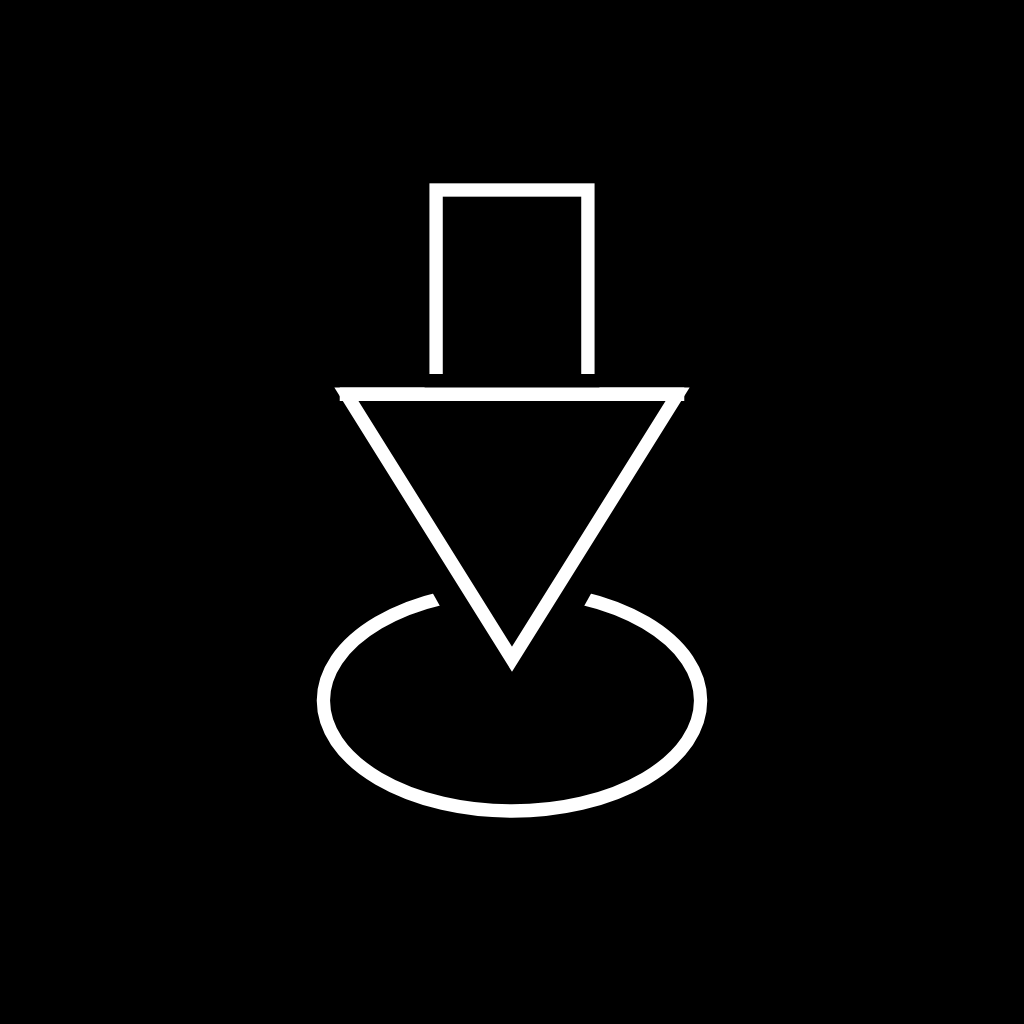
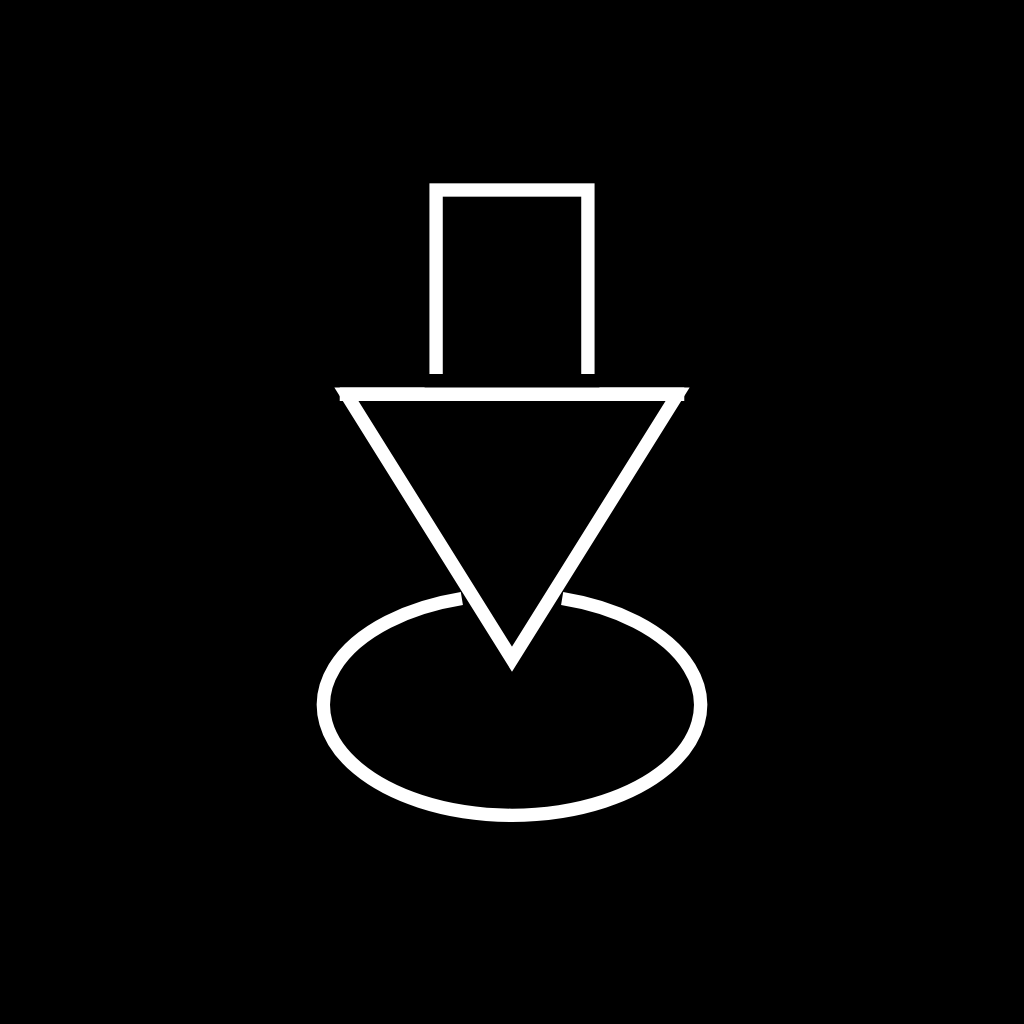
원 상단 호를 끊고 내일 필드를 TOP→실시간으로
겹침 구간은 원 패스에 아예 두지 않고, 필드는 인기 TOP 아래
현재 올라오는 의견이 이어지게 한다.

diff --git a/components/DomaMark.tsx b/components/DomaMark.tsx
@@ -1,7 +1,5 @@
 "use client";
 
-import { useId } from "react";
-
 type DomaMarkProps = {
   /** 세로 기준 높이 */
   size?: number;
@@ -11,8 +9,8 @@ type DomaMarkProps = {
 };
 
 /**
- * 삼각이 위 레이어. 원은 evenodd 클립으로 삼각(확장) 구간 스트로크 0.
- * 그 위 삼각 fill(bg)+stroke로 겹침을 다시 막는다.
+ * 삼각이 위 레이어.
+ * 원은 삼각과 겹치는 상단 호를 패스에서 끊음 → 가려지는 구간 스트로크 0.
  */
 export function DomaMark({
   size = 56,
@@ -21,13 +19,18 @@ export function DomaMark({
 }: DomaMarkProps) {
   const stroke = light ? "#000000" : "#ffffff";
   const bg = light ? "#ffffff" : "#000000";
-  const uid = useId().replace(/:/g, "");
-  const clipId = `doma-ell-clip-${uid}`;
   const width = Math.round(size * (48 / 72));
 
   const tri = "M6 23.2h36L24 52Z";
-  // 스트로크 두께 포함해 원을 잘라낼 구멍
-  const triHole = "M0.8 18.8h46.4L24 60.2Z";
+
+  /**
+   * 타원 cx=24 cy=56.5 rx=20.5 ry=12
+   * 삼각 변과 교차 ≈ (-103°, -77°). 여유 두고 상단 호를 더 넓게 제거.
+   * 왼쪽 (18.6, 45.35) → 시계방향 큰 호 → 오른쪽 (29.4, 45.35)
+   * (= 하단·측면만 그림, 겹침 상단 스트로크 없음)
+   */
+  const ellipseOpen =
+    "M18.55 45.4 A20.5 12 0 1 0 29.45 45.4";
 
   return (
     <svg
@@ -39,28 +42,16 @@ export function DomaMark({
       className={`shrink-0 ${className}`}
       aria-hidden
     >
-      <defs>
-        <clipPath id={clipId} clipPathUnits="userSpaceOnUse">
-          {/* 전체 − 삼각 구멍 → 겹침 구간 원 페인트 0 */}
-          <path
-            fillRule="evenodd"
-            clipRule="evenodd"
-            d={`M0 0H48V72H0Z ${triHole}`}
-          />
-        </clipPath>
-      </defs>
-
-      <ellipse
-        cx="24"
-        cy="56.5"
-        rx="20.5"
-        ry="12"
+      {/* 원 — 상단 겹침 구간은 패스에 없음 */}
+      <path
+        d={ellipseOpen}
         stroke={stroke}
         strokeWidth="1.45"
-        clipPath={`url(#${clipId})`}
+        strokeLinecap="butt"
+        fill="none"
       />
 
-      {/* 삼각 위 레이어: 내부 bg로 잔여 픽셀까지 덮고 스트로크 */}
+      {/* 삼각 위 레이어 */}
       <path d={tri} fill={bg} stroke="none" />
       <path
         d={tri}
@@ -78,7 +69,6 @@ export function DomaMark({
         stroke={stroke}
         strokeWidth="1.45"
       />
-      {/* 사각 하단이 삼각에 가려지게 */}
       <path d="M14.5 21h19v4.5h-19Z" fill={bg} />
       <path
         d="M6 23.2h36"
